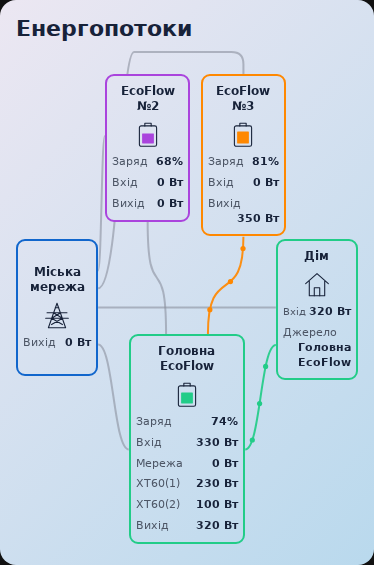
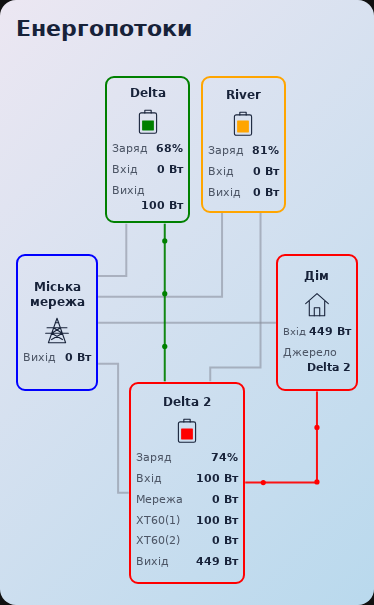
Route all EcoFlow flows with right-angle paths
Release 0.1.7: use separate city grid routes, a straight vertical Delta-to-main transfer and a one-corner main-to-home feed. Update the responsive layout and verified previews.

Changed region(s): [[0.0294, 0.0301, 0.9706, 0.9929]]

diff --git a/suris-ecoflow-flow-card.js b/suris-ecoflow-flow-card.js
@@ -1,8 +1,8 @@
-/* Suris EcoFlow Flow Card v0.1.6 | MIT | No external dependencies. */
+/* Suris EcoFlow Flow Card v0.1.7 | MIT | No external dependencies. */
 (() => {
   'use strict';
   const TAG = 'suris-ecoflow-flow-card';
-  const VERSION = '0.1.6';
+  const VERSION = '0.1.7';
   const NS = 'http://www.w3.org/2000/svg';
   let cardSequence = 0;
   const DEFAULTS = {
@@ -113,15 +113,15 @@
   const CSS = `
     :host{display:block;--flow-grid:#4b9fff;--flow-auxiliary_1:#ffcc42;--flow-auxiliary_2:#ffcc42;--flow-main:#27d9d5}
     *{box-sizing:border-box}ha-card{display:block;overflow:hidden;background:var(--ha-card-background,var(--card-background-color,#1c1c1c));color:var(--primary-text-color,#e8e8e8);padding:16px;border-radius:var(--ha-card-border-radius,16px)}
-    .wrap{container-type:inline-size}h2{font-size:22px;font-weight:600;margin:0 0 8px}.diagram{position:relative;height:clamp(470px,65cqw,720px)}
+    .wrap{container-type:inline-size}h2{font-size:22px;font-weight:600;margin:0 0 8px}.diagram{position:relative;height:clamp(540px,65cqw,720px)}
     .lines{position:absolute;inset:0;width:100%;height:100%;overflow:visible;pointer-events:none}
-    .flow path{fill:none;stroke:var(--divider-color,#60656d);stroke-width:2;opacity:.58}.flow.active path{stroke:var(--color);opacity:.92}.flow circle{fill:var(--color);visibility:hidden}.flow.active circle{visibility:visible}
+    .flow path{fill:none;stroke:var(--divider-color,#60656d);stroke-width:2;stroke-linejoin:miter;stroke-linecap:butt;opacity:.58}.flow.active path{stroke:var(--color);opacity:.92}.flow circle{fill:var(--color);visibility:hidden}.flow.active circle{visibility:visible}
     .node{position:absolute;display:flex;flex-direction:column;justify-content:center;gap:7px;min-width:0;background:transparent;background:color-mix(in srgb,var(--ha-card-background,var(--card-background-color,#1c1c1c)) 8%,transparent);border:2px solid var(--node-color,var(--divider-color,#60656d));border-radius:12px;padding:12px 10px;z-index:1;min-height:max(140px,22cqw);height:auto}
     .node h3{font-size:clamp(12px,1.9cqw,20px);line-height:1.25;text-align:center;margin:0;font-weight:600;overflow-wrap:anywhere}.node .icon{display:flex;justify-content:center;height:clamp(30px,5cqw,56px);margin:4px 0}.icon svg{height:100%;width:64px;fill:none;stroke:currentColor;stroke-width:2.4;stroke-linecap:round;stroke-linejoin:round}.icon .battery-fill{fill:var(--node-color,var(--flow-main));stroke:none}
     .row{display:flex;align-items:baseline;justify-content:space-between;gap:4px;font-size:clamp(11px,1.6cqw,17px);line-height:1.35;min-width:0}.label{color:var(--secondary-text-color,#aaa);overflow-wrap:anywhere}.value{font:inherit;color:inherit;font-weight:600;text-align:right;white-space:nowrap;background:none;border:0;padding:0;min-width:0}.value[data-entity]{cursor:pointer}.value:focus-visible{outline:2px solid var(--flow-main);outline-offset:2px}.value:disabled{opacity:1}.source{flex-wrap:wrap}.source .label{width:100%}.source .value{margin-left:auto;white-space:normal;overflow-wrap:anywhere}
     .grid{left:0;top:37%;width:22%}.home{right:0;top:37%;width:22%}.auxiliary_1{left:29%;top:3%;width:22%}.auxiliary_2{left:55%;top:3%;width:22%}.main{left:36%;bottom:1%;width:28%;min-height:max(220px,28cqw)}
     .status{margin-top:8px;color:var(--secondary-text-color,#aaa);font-size:12px;min-height:16px;text-align:center}.status:empty{display:none}
-    @container(max-width:520px){.diagram{height:500px}.node{padding:8px 5px;gap:6px;border-radius:9px;min-height:137px}.node h3{font-size:12px}.node .icon{height:29px;margin:0}.row{font-size:11px;flex-wrap:wrap;gap:0 3px}.row .value{margin-left:auto}.grid,.home{width:24%;top:38%}.home .power .label{font-size:clamp(8px,2.8cqw,11px);overflow-wrap:normal}.auxiliary_1{left:26%;width:25%;top:5%}.auxiliary_2{left:54%;width:25%;top:5%}.main{left:33%;width:34%;min-height:202px}}
+    @container(max-width:520px){.diagram{height:540px}.node{padding:8px 5px;gap:6px;border-radius:9px;min-height:137px}.node h3{font-size:12px}.node .icon{height:29px;margin:0}.row{font-size:11px;flex-wrap:wrap;gap:0 3px}.row .value{margin-left:auto}.grid,.home{width:24%;top:38%}.home .power .label{font-size:clamp(8px,2.8cqw,11px);overflow-wrap:normal}.auxiliary_1{left:26%;width:25%;top:5%}.auxiliary_2{left:54%;width:25%;top:5%}.main{left:33%;width:34%;min-height:202px}}
     @media(prefers-reduced-motion:reduce){.flow circle{display:none}.flow.active path{stroke-width:3}}
   `;
   class SurisEcoFlowFlowCard extends HTMLElement {
@@ -235,18 +235,22 @@
     _drawPaths() {
       if (!this._diagram || !this.isConnected) return;
       const base = this._diagram.getBoundingClientRect(); if (!base.width || !base.height) return;
-      const rect = (key) => { const r = this._nodes[key].getBoundingClientRect(); return { x: r.left - base.left, y: r.top - base.top, w: r.width, h: r.height }; };
+      const rect = (key) => { const r = this._nodes[key].getBoundingClientRect(); return { x: r.left - base.left, y: r.top - base.top, w: r.width, h: r.height, right: r.right - base.left, bottom: r.bottom - base.top }; };
       const g = rect('grid'), a = rect('auxiliary_1'), b = rect('auxiliary_2'), m = rect('main'), h = rect('home');
       const midY = g.y + g.h / 2;
-      const curve = (x, y, xx, yy) => `M ${x} ${y} C ${(x + xx) / 2} ${y}, ${(x + xx) / 2} ${yy}, ${xx} ${yy}`;
+      const inputA = a.x + a.w * .25, inputB = b.x + b.w * .25;
+      const outputA = a.x + a.w * .70, outputB = b.x + b.w * .70;
+      const mainInputB = m.x + m.w * .70, mainAC = m.y + m.h * .55;
+      const gridMainX = m.x - (m.x - g.right) * .35;
+      const homeBottomInput = h.x + h.w * .50;
       const routes = {
-        grid_auxiliary_1: curve(g.x + g.w, g.y + g.h * .23, a.x, a.y + a.h * .42),
-        grid_auxiliary_2: `M ${g.x + g.w} ${g.y + g.h * .36} C ${g.x + g.w + 22} ${g.y + g.h * .36}, ${g.x + g.w + 22} 3, ${g.x + g.w + 36} 3 H ${b.x + b.w / 2 - 12} Q ${b.x + b.w / 2} 3, ${b.x + b.w / 2} 15 V ${b.y}`,
-        grid_main: curve(g.x + g.w, g.y + g.h * .77, m.x, m.y + m.h * .55),
-        grid_home: `M ${g.x + g.w} ${midY} L ${h.x} ${midY}`,
-        auxiliary_1_main: `M ${a.x + a.w / 2} ${a.y + a.h} C ${a.x + a.w / 2} ${m.y - 25}, ${m.x + m.w * .32} ${a.y + a.h + 25}, ${m.x + m.w * .32} ${m.y}`,
-        auxiliary_2_main: `M ${b.x + b.w / 2} ${b.y + b.h} C ${b.x + b.w / 2} ${m.y - 25}, ${m.x + m.w * .68} ${b.y + b.h + 25}, ${m.x + m.w * .68} ${m.y}`,
-        main_home: curve(m.x + m.w, m.y + m.h * .55, h.x, h.y + h.h * .75)
+        grid_auxiliary_1: `M ${g.right} ${g.y + g.h * .16} H ${inputA} V ${a.bottom}`,
+        grid_auxiliary_2: `M ${g.right} ${g.y + g.h * .31} H ${inputB} V ${b.bottom}`,
+        grid_main: `M ${g.right} ${g.y + g.h * .80} H ${gridMainX} V ${mainAC} H ${m.x}`,
+        grid_home: `M ${g.right} ${midY} H ${h.x}`,
+        auxiliary_1_main: `M ${outputA} ${a.bottom} V ${m.y}`,
+        auxiliary_2_main: `M ${outputB} ${b.bottom} V ${m.y - 14} H ${mainInputB} V ${m.y}`,
+        main_home: `M ${m.right} ${m.y + m.h * .50} H ${homeBottomInput} V ${h.bottom}`
       };
       const geometry = JSON.stringify(routes); if (geometry === this._geometry && this._svg.childElementCount) return;
       this._geometry = geometry; this._svg.setAttribute('viewBox', `0 0 ${base.width} ${base.height}`); this._svg.replaceChildren(); this._flows = {};

diff --git a/README.md b/README.md
@@ -1,4 +1,4 @@
-# Suris EcoFlow Flow Card 0.1.6
+# Suris EcoFlow Flow Card 0.1.7
 
 Картка Home Assistant із візуальним редактором сутностей. Міська мережа ліворуч, дім праворуч, дві допоміжні EcoFlow зверху, головна EcoFlow знизу. Значення потужності містяться у квадратних блоках; на лініях лише рух потоку. Працює локально, без сторонніх бібліотек, CDN та збірки.
 
@@ -16,7 +16,7 @@
 
 1. Скопіюй `suris-ecoflow-flow-card.js` до папки `www` у каталозі конфігурації Home Assistant. Через Studio Code Server це зазвичай `/config/www`; в окремих версіях середовища каталог може відображатися як `/homeassistant/www`. Використовуй той каталог, у якому розташований `configuration.yaml`. Можна скористатися Samba або завантаженням файлу в редакторі. Якщо папку `www` щойно створено вперше, перезапусти Home Assistant.
 2. Відкрий **Налаштування → Панелі огляду → ⋮ → Ресурси → Додати ресурс**. Якщо «Ресурси» не видно, увімкни розширений режим у профілі користувача.
-3. URL: `/local/suris-ecoflow-flow-card.js?v=0.1.6`. Тип: **JavaScript module**.
+3. URL: `/local/suris-ecoflow-flow-card.js?v=0.1.7`. Тип: **JavaScript module**.
 4. Онови сторінку Home Assistant. За потреби очисть кеш інтерфейсу в застосунку.
 5. На панелі огляду натисни **Редагувати → Додати картку**, знайди **Suris EcoFlow Flow Card**.
 6. Вибери сутності у візуальному редакторі. YAML не потрібен.
@@ -79,6 +79,8 @@
 Поля у візуальному редакторі можна очищати й заповнювати заново: фокус і відкриті розділи зберігаються. Недописаний колір або некоректне число залишаються в полі; останній коректний попередній перегляд зберігається, доки введення не завершено. Порожні назви та числові поля використовують типові значення під час показу картки.
 
 ## Вигляд та перевірка
+
+Усі сім ліній складаються лише з горизонтальних і вертикальних відрізків із прямими кутами. Міська мережа має окрему лінію до кожної станції та дому. Від першої допоміжної EcoFlow до головної проходить одна пряма вертикальна лінія. Від головної станції до дому лінія повертає лише один раз і входить у дім знизу. Рухомі точки повторюють ці самі маршрути.
 
 Значки батарей усіх трьох станцій показують рівень заповнення за їхніми датчиками заряду. 0% — порожня батарея, 100% — повна. Якщо заряд невідомий, недоступний або поза діапазоном 0–100%, усередині батареї відображається прочерк. Колір заповнення відповідає кольору станції. У домі потужність підписана «Вхід» і показується без знака приблизного значення.
 

diff --git a/CHANGELOG.md b/CHANGELOG.md
@@ -1,5 +1,14 @@
 # Changelog
 
+## 0.1.7
+
+- Route all seven flows along horizontal and vertical segments with sharp 90-degree corners.
+- Give the city grid separate lines to each station and home; remove the route above the auxiliary stations.
+- Make the first auxiliary station's transfer to the main station a single straight vertical line.
+- Simplify the main station's home feed to one corner, entering home from below.
+- Reserve enough vertical space for routes to stay clear of unrelated blocks on medium-width screens.
+- Keep moving flow dots on the same paths and verify connections across desktop and mobile layouts.
+
 ## 0.1.6
 
 - Rename the main station's two DC inputs to XT60(1) and XT60(2) in the card and visual editor.
